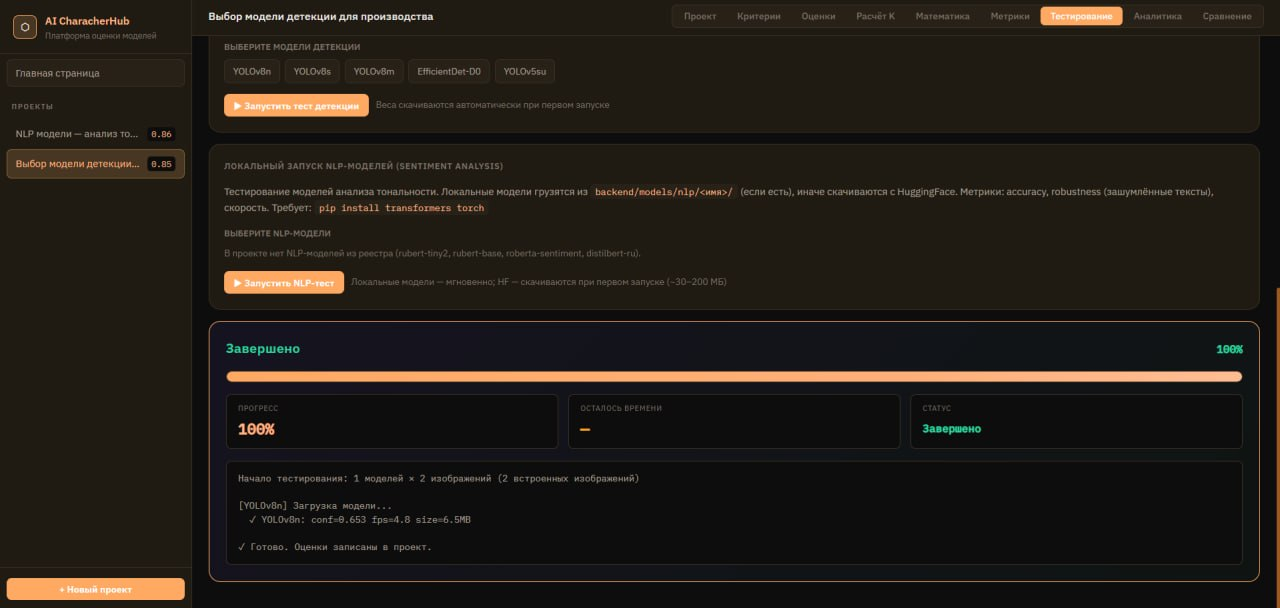
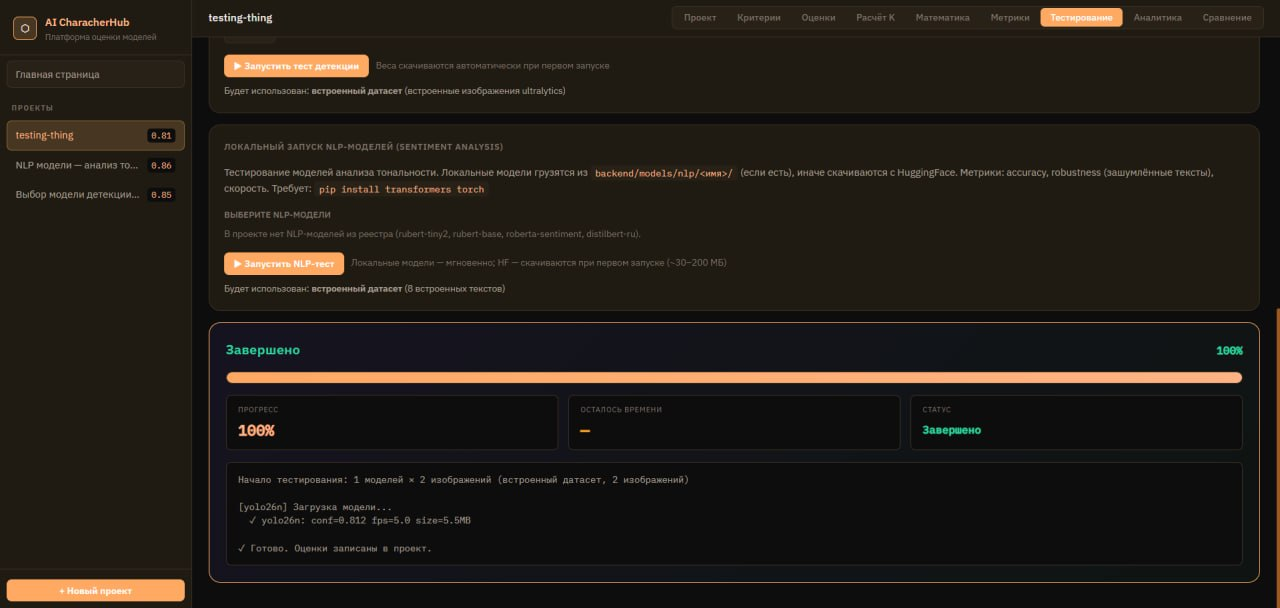
v2.4.1: исправлен README

diff --git a/README.md b/README.md
@@ -19,6 +19,9 @@ The platform runs locally, ships with two preloaded demo projects (object detect
 
 ## Screenshots
 
+> **Main page**
+![Project Dashboard](docs/screenshots/Main_page.png)
+
 > **Main dashboard — project overview with model leaderboard**
 ![Project Dashboard](docs/screenshots/Project_Dashboard.png)
 
@@ -305,6 +308,9 @@ Full Swagger docs: **http://localhost:8000/docs**
 ---
 
 ## Скриншоты
+
+> **Главная страница**
+![Project Dashboard](docs/screenshots/Main_page.png)
 
 > **Главный дашборд — обзор проекта и лидерборд моделей**
 ![Project Dashboard](docs/screenshots/Project_Dashboard.png)